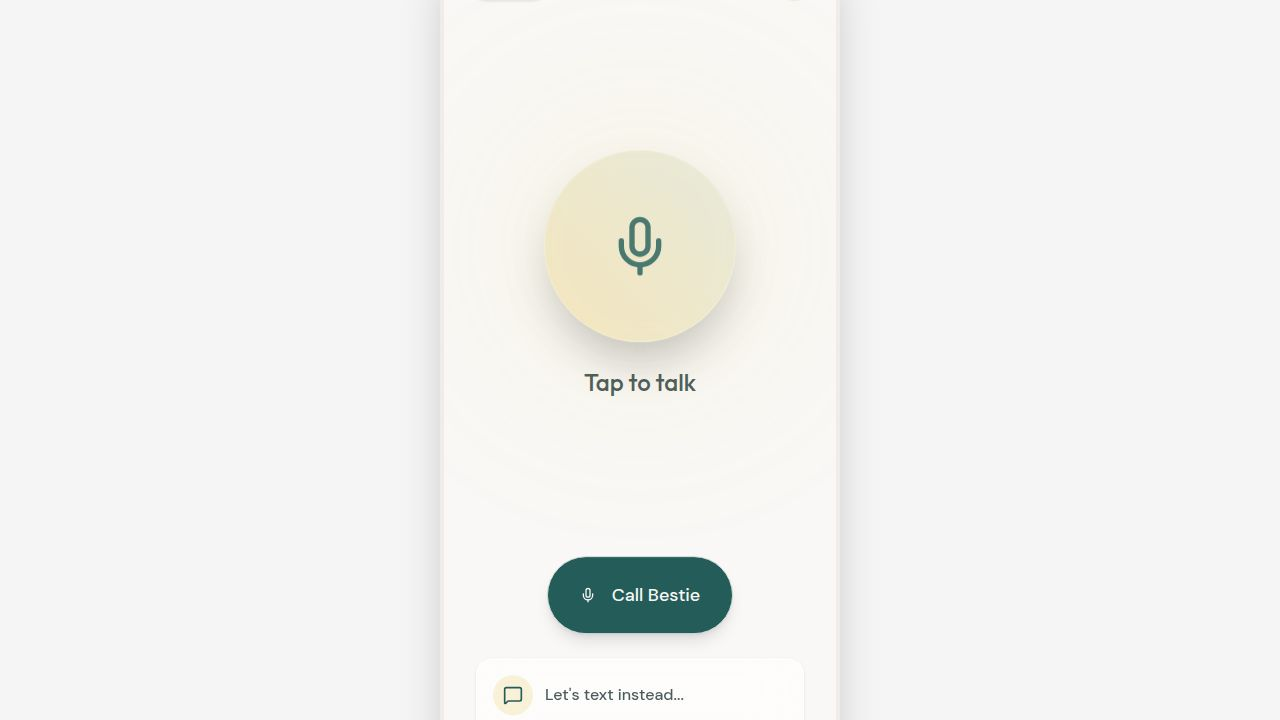
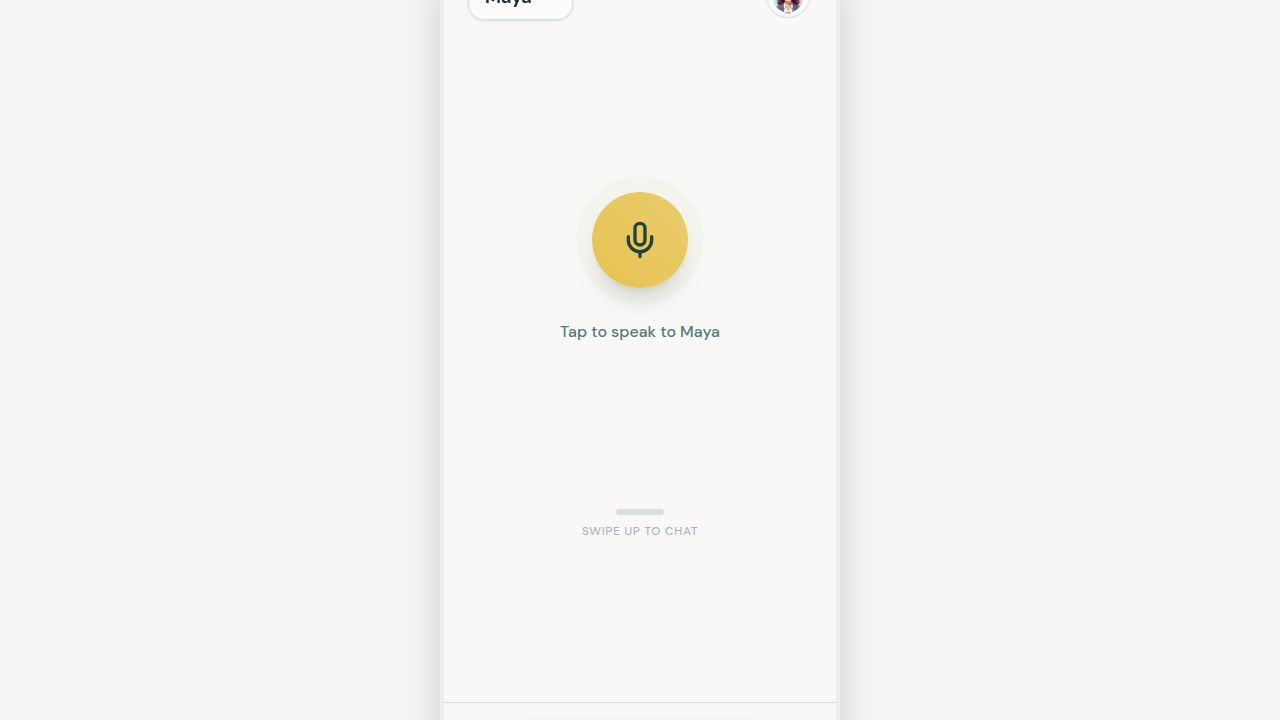
Refine voice mode interaction with smooth transitions and drag gestures
Update `VoiceView` component to use Framer Motion for animated height transitions and drag gestures, allowing users to swipe between voice and text modes.

Replit-Commit-Author: Agent
Replit-Commit-Session-Id: 385ee376-42fc-4156-9557-b1e2d3269525
Replit-Commit-Checkpoint-Type: full_checkpoint
Replit-Commit-Event-Id: e5541da1-2ef6-41e9-bdf1-d5e6aafccbc4
Replit-Commit-Screenshot-Url: https://storage.googleapis.com/screenshot-production-us-central1/b6357393-ed5a-4797-838d-3c0145088584/385ee376-42fc-4156-9557-b1e2d3269525/GkLuwUl
Replit-Helium-Checkpoint-Created: true

diff --git a/client/src/App.tsx b/client/src/App.tsx
@@ -194,7 +194,7 @@ const SharedHeader = ({
       
       {/* Timer only visible in Voice Mode when active */}
       <AnimatePresence>
-        {mode === "voice" && isActive && (
+        {isActive && (
           <motion.div 
             initial={{ opacity: 0, y: -10 }}
             animate={{ opacity: 1, y: 0 }}
@@ -220,94 +220,150 @@ const SharedHeader = ({
   );
 };
 
-const VoiceView = ({ isActive, onEndCall, onProfile, persona, setPersona }: { 
+const VoiceView = ({ isActive, onEndCall, onProfile, persona, setPersona, mode, setMode, duration }: { 
   isActive: boolean; 
   onEndCall: () => void;
   onProfile: () => void;
   persona: Persona;
   setPersona: (p: Persona) => void;
+  mode: Mode;
+  setMode: (m: Mode) => void;
+  duration: number;
 }) => {
   return (
-    <div className="h-full flex flex-col relative pt-24 pb-4">
-      {/* Main Content */}
-      <div className="flex-1 flex flex-col items-center justify-center relative">
-        {isActive ? (
-          /* Active Call State */
-          <div className="w-full h-full flex items-center justify-center px-8">
-            <div className="flex items-center justify-center gap-1.5 h-32 w-full">
-              {[...Array(8)].map((_, i) => (
-                <motion.div
-                  key={i}
-                  className="w-4 bg-primary rounded-full opacity-80"
-                  animate={{
-                    height: ["20%", "80%", "20%"],
-                    backgroundColor: ["hsl(175 45% 25%)", "hsl(45 80% 60%)", "hsl(175 45% 25%)"]
-                  }}
-                  transition={{
-                    duration: 1 + Math.random() * 0.5,
-                    repeat: Infinity,
-                    delay: i * 0.1,
-                    ease: "easeInOut"
-                  }}
-                />
-              ))}
+    <motion.div 
+      className="absolute top-0 left-0 right-0 z-40 bg-background rounded-b-[2.5rem] shadow-2xl overflow-hidden"
+      initial={false}
+      animate={{ height: mode === "voice" ? "100%" : "130px" }}
+      transition={{ type: "spring", stiffness: 200, damping: 25 }}
+      drag="y"
+      dragConstraints={{ top: 0, bottom: 0 }}
+      dragElastic={0.05} // Slightly reduced elastic for tighter feel
+      onDragEnd={(_, info) => {
+         if (mode === "voice" && info.offset.y < -100) {
+           setMode("text");
+         } else if (mode === "text" && info.offset.y > 50) {
+           setMode("voice");
+         }
+      }}
+    >
+      {/* Container to prevent squishing of content when height shrinks */}
+      <div className="w-full h-screen relative flex flex-col pointer-events-none">
+        
+        {/* Header embedded inside VoiceView */}
+        <div className="relative z-50 pointer-events-auto">
+          <SharedHeader 
+            persona={persona} 
+            setPersona={setPersona} 
+            onProfile={onProfile} 
+            isActive={isActive} 
+            duration={duration} 
+            mode={mode} 
+          />
+        </div>
+
+        {/* Main Voice Content */}
+        <motion.div 
+          className="flex-1 flex flex-col pt-24 pb-4 pointer-events-auto"
+          animate={{ opacity: mode === "voice" ? 1 : 0 }}
+          transition={{ duration: 0.2 }}
+        >
+          {/* Main Content */}
+          <div className="flex-1 flex flex-col items-center justify-center relative">
+            {isActive ? (
+              /* Active Call State */
+              <div className="w-full h-full flex items-center justify-center px-8">
+                <div className="flex items-center justify-center gap-1.5 h-32 w-full">
+                  {[...Array(8)].map((_, i) => (
+                    <motion.div
+                      key={i}
+                      className="w-4 bg-primary rounded-full opacity-80"
+                      animate={{
+                        height: ["20%", "80%", "20%"],
+                        backgroundColor: ["hsl(175 45% 25%)", "hsl(45 80% 60%)", "hsl(175 45% 25%)"]
+                      }}
+                      transition={{
+                        duration: 1 + Math.random() * 0.5,
+                        repeat: Infinity,
+                        delay: i * 0.1,
+                        ease: "easeInOut"
+                      }}
+                    />
+                  ))}
+                </div>
+              </div>
+            ) : (
+              /* Idle State */
+              <div className="flex flex-col items-center gap-8">
+                 <div className="relative group cursor-pointer" onClick={onEndCall}>
+                   {/* Pulse Rings */}
+                   <div className="absolute inset-0 bg-accent/20 rounded-full animate-ping opacity-20 duration-3000" />
+                   <div className="absolute -inset-4 bg-secondary/20 rounded-full animate-pulse opacity-30" />
+                   
+                   {/* Main Button */}
+                   <div className="w-24 h-24 bg-gradient-to-tr from-accent to-accent/80 rounded-full flex items-center justify-center shadow-xl transform transition-transform group-hover:scale-105 active:scale-95">
+                      <Mic className="w-10 h-10 text-accent-foreground" />
+                   </div>
+                 </div>
+                 <p className="text-muted-foreground font-medium">Tap to speak to {persona}</p>
+              </div>
+            )}
+          </div>
+
+          {/* Controls & Bottom Handle */}
+          <div className="px-6 space-y-6 pb-24">
+            {/* Call Controls (Only visible when active) */}
+            {isActive && (
+              <div className="flex items-center justify-center gap-8 mb-4">
+                  <Button 
+                    variant="outline" 
+                    size="icon" 
+                    className="w-14 h-14 rounded-full border-2 border-border bg-background hover:bg-muted transition-colors"
+                  >
+                    <Video className="w-6 h-6 text-foreground" />
+                  </Button>
+                  <Button 
+                    variant="destructive" 
+                    size="icon" 
+                    className="w-20 h-20 rounded-full shadow-2xl hover:scale-105 transition-transform bg-red-500 hover:bg-red-600 text-white border-4 border-background"
+                    onClick={onEndCall}
+                  >
+                    <PhoneOff className="w-8 h-8" />
+                  </Button>
+                  <Button 
+                    variant="outline" 
+                    size="icon" 
+                    className="w-14 h-14 rounded-full border-2 border-border bg-background hover:bg-muted transition-colors"
+                  >
+                    <Mic className="w-6 h-6 text-foreground" />
+                  </Button>
+              </div>
+            )}
+
+            {/* Swipe Up Handle */}
+            <div className="flex flex-col items-center justify-center gap-2 py-2 text-muted-foreground/50 cursor-grab active:cursor-grabbing">
+               <div className="w-12 h-1.5 bg-muted-foreground/20 rounded-full" />
+               <span className="text-xs font-medium uppercase tracking-wider">Swipe up to chat</span>
             </div>
           </div>
-        ) : (
-          /* Idle State */
-          <div className="flex flex-col items-center gap-8">
-             <div className="relative group cursor-pointer" onClick={onEndCall}>
-               {/* Pulse Rings */}
-               <div className="absolute inset-0 bg-accent/20 rounded-full animate-ping opacity-20 duration-3000" />
-               <div className="absolute -inset-4 bg-secondary/20 rounded-full animate-pulse opacity-30" />
-               
-               {/* Main Button */}
-               <div className="w-24 h-24 bg-gradient-to-tr from-accent to-accent/80 rounded-full flex items-center justify-center shadow-xl transform transition-transform group-hover:scale-105 active:scale-95">
-                  <Mic className="w-10 h-10 text-accent-foreground" />
-               </div>
-             </div>
-             <p className="text-muted-foreground font-medium">Tap to speak to {persona}</p>
-          </div>
-        )}
+        </motion.div>
+        
+        {/* Collapsed Handle (Visible only in Text Mode) */}
+        <AnimatePresence>
+          {mode === "text" && (
+            <motion.div 
+              initial={{ opacity: 0 }}
+              animate={{ opacity: 1 }}
+              exit={{ opacity: 0 }}
+              className="absolute bottom-2 left-0 right-0 flex justify-center pb-2 pointer-events-none"
+            >
+               <div className="w-12 h-1.5 bg-muted-foreground/20 rounded-full" />
+            </motion.div>
+          )}
+        </AnimatePresence>
+        
       </div>
-
-      {/* Controls & Bottom Handle */}
-      <div className="px-6 space-y-6 pb-24">
-        {/* Call Controls (Only visible when active) */}
-        {isActive && (
-          <div className="flex items-center justify-center gap-8 mb-4">
-              <Button 
-                variant="outline" 
-                size="icon" 
-                className="w-14 h-14 rounded-full border-2 border-border bg-background hover:bg-muted transition-colors"
-              >
-                <Video className="w-6 h-6 text-foreground" />
-              </Button>
-              <Button 
-                variant="destructive" 
-                size="icon" 
-                className="w-20 h-20 rounded-full shadow-2xl hover:scale-105 transition-transform bg-red-500 hover:bg-red-600 text-white border-4 border-background"
-                onClick={onEndCall}
-              >
-                <PhoneOff className="w-8 h-8" />
-              </Button>
-              <Button 
-                variant="outline" 
-                size="icon" 
-                className="w-14 h-14 rounded-full border-2 border-border bg-background hover:bg-muted transition-colors"
-              >
-                <Mic className="w-6 h-6 text-foreground" />
-              </Button>
-          </div>
-        )}
-
-        {/* Swipe Handle */}
-        <div className="flex flex-col items-center justify-center gap-2 py-2 text-muted-foreground/50">
-           <div className="w-12 h-1.5 bg-muted-foreground/20 rounded-full" />
-           <span className="text-xs font-medium uppercase tracking-wider">Swipe up to chat</span>
-        </div>
-      </div>
-    </div>
+    </motion.div>
   );
 };
 
@@ -388,57 +444,22 @@ function App() {
           onVoiceMode={() => setMode(mode === "voice" ? "text" : "voice")}
         />
 
-        {/* Shared Header (Always Visible) */}
-        <SharedHeader 
-          persona={persona}
-          setPersona={setPersona}
-          onProfile={() => setShowProfile(true)}
-          isActive={isCalling}
-          duration={duration}
-          mode={mode}
-        />
-
         {/* Base Layer: Text View (Transcript) */}
         <div className="absolute inset-0 z-0">
           <TextView />
         </div>
 
         {/* Curtain Layer: Voice View */}
-        <motion.div
-          initial={{ y: 0 }}
-          animate={{ y: mode === "voice" ? "0%" : "-85%" }}
-          transition={{ 
-            type: "spring", 
-            stiffness: 120, 
-            damping: 20, 
-            mass: 1 
-          }}
-          drag="y"
-          dragConstraints={{ top: -700, bottom: 0 }}
-          dragElastic={0.1}
-          onDragEnd={(_, info) => {
-             if (info.offset.y < -150) {
-               setMode("text");
-             } else if (info.offset.y > 150) {
-               setMode("voice");
-             }
-          }}
-          className="absolute inset-0 z-10 bg-background shadow-2xl rounded-b-[2.5rem] flex flex-col pointer-events-auto"
-        >
-          {/* Drag Handle Indicator */}
-          <div className="absolute bottom-28 left-1/2 -translate-x-1/2 w-full flex justify-center z-20 pointer-events-none">
-             {/* This is handled inside VoiceView now, removing duplicate handle here if present or moving it */}
-          </div>
-          
-          <VoiceView 
-            isActive={isCalling} 
-            onTextMode={() => setMode("text")}
-            onEndCall={() => setIsCalling(!isCalling)}
-            onProfile={() => setShowProfile(true)}
-            persona={persona}
-            setPersona={setPersona}
-          />
-        </motion.div>
+        <VoiceView 
+          isActive={isCalling} 
+          onEndCall={() => setIsCalling(!isCalling)}
+          onProfile={() => setShowProfile(true)}
+          persona={persona}
+          setPersona={setPersona}
+          mode={mode}
+          setMode={setMode}
+          duration={duration}
+        />
 
         {/* Profile Overlay */}
         <AnimatePresence>
